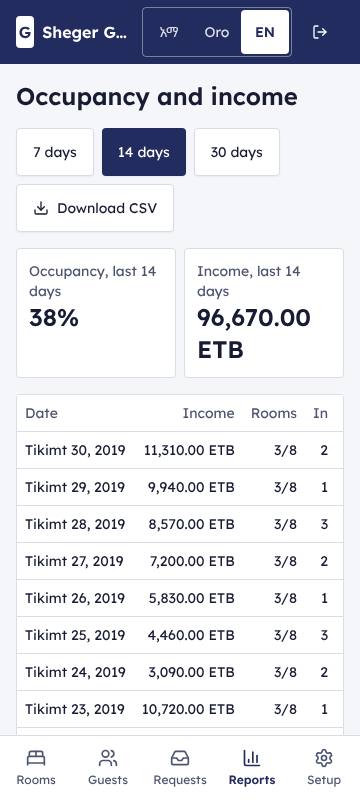
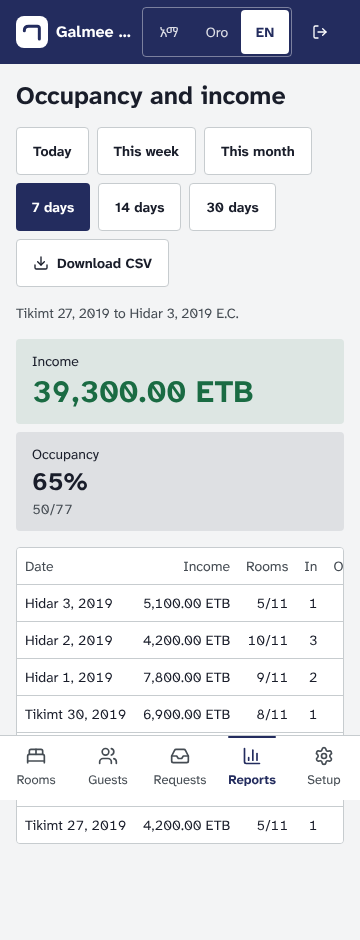
Restyle room board, guest register, requests and reports with the shared summary band, ledger list and empty states

diff --git a/src/app/(app)/page.tsx b/src/app/(app)/page.tsx
@@ -1,7 +1,9 @@
 import Link from "next/link";
 import { getLocale, getTranslations } from "next-intl/server";
-import { ChevronLeft, ChevronRight, Plus } from "lucide-react";
+import { BedDouble, ChevronLeft, ChevronRight, Plus } from "lucide-react";
 import { loadDemoDataAction, markRoomCleanAction } from "@/actions/stays";
+import { EmptyState } from "@/components/galmee/empty-state";
+import { MoneySummaryCard } from "@/components/galmee/money-summary-card";
 import { ActionForm } from "@/components/hotel/action-form";
 import { BOARD_DAYS, RoomBoard } from "@/components/hotel/room-board";
 import { Button, buttonVariants } from "@/components/ui/button";
@@ -31,9 +33,18 @@ export default async function BoardPage({ searchParams }: { searchParams: Promis
   if (rooms.length === 0) {
     return (
       <div className="grid max-w-md gap-3">
-        <h1 className="text-2xl font-semibold">{t("title")}</h1>
-        <p className="text-muted-foreground">{t("emptyBody")}</p>
-        {profile.role !== "staff" ? <Link href="/settings" className={buttonVariants({ size: "lg" })}>{t("setupRooms")}</Link> : null}
+        <h1 className="text-[1.5625rem] leading-tight font-bold">{t("title")}</h1>
+        <EmptyState
+          icon={BedDouble}
+          message={t("emptyBody")}
+          action={
+            profile.role !== "staff" ? (
+              <Link href="/settings" className={buttonVariants({ size: "lg" })}>
+                {t("setupRooms")}
+              </Link>
+            ) : undefined
+          }
+        />
         {tenant.name === DEMO_TENANT && profile.role === "owner" ? (
           <ActionForm action={loadDemoDataAction} submitLabel={t("loadDemo")} />
         ) : null}
@@ -47,7 +58,6 @@ export default async function BoardPage({ searchParams }: { searchParams: Promis
     { label: t("inHouse"), value: summary.inHouse },
     { label: t("arrivals"), value: summary.arrivals },
     { label: t("dueOut"), value: summary.dueOut },
-    { label: t("freeTonight"), value: summary.freeTonight },
   ];
   const windowed = stays.filter((s) => s.checkIn < addDays(from, BOARD_DAYS) && s.checkOut > from);
   const dirtyRooms = rooms.filter((r) => r.dirty && r.inService);
@@ -56,7 +66,7 @@ export default async function BoardPage({ searchParams }: { searchParams: Promis
   return (
     <div className="grid gap-4">
       <div className="flex flex-wrap items-center justify-between gap-2">
-        <h1 className="num text-xl font-semibold">{formatEthiopianDate(from, locale)}</h1>
+        <h1 className="num text-[1.5625rem] leading-tight font-bold">{formatEthiopianDate(from, locale)}</h1>
         <div className="flex items-center gap-2">
           <Link href={`/?from=${addDays(from, -7)}`} className={navClass} aria-label={t("previous")}>
             <ChevronLeft aria-hidden />
@@ -70,14 +80,17 @@ export default async function BoardPage({ searchParams }: { searchParams: Promis
         </div>
       </div>
 
-      <dl className="grid grid-cols-4 gap-2">
-        {stats.map((s) => (
-          <div key={s.label} className="rounded-md border bg-card p-2">
-            <dt className="text-xs leading-tight text-muted-foreground">{s.label}</dt>
-            <dd className="num text-xl font-semibold">{s.value}</dd>
-          </div>
-        ))}
-      </dl>
+      <div className="grid gap-2 sm:grid-cols-[minmax(0,14rem)_1fr]">
+        <MoneySummaryCard label={t("freeTonight")} figure={String(summary.freeTonight)} sub={t("ofRooms", { count: inService })} />
+        <dl className="grid grid-cols-3 divide-x rounded-md border bg-card">
+          {stats.map((s) => (
+            <div key={s.label} className="grid content-center gap-0.5 p-3">
+              <dt className="text-sm leading-tight text-muted-foreground">{s.label}</dt>
+              <dd className="num text-[1.5625rem] leading-tight font-bold">{s.value}</dd>
+            </div>
+          ))}
+        </dl>
+      </div>
 
       <RoomBoard rooms={rooms} stays={windowed} days={dayRange(from, BOARD_DAYS)} today={today} locale={locale} />
 

diff --git a/src/app/(app)/guests/page.tsx b/src/app/(app)/guests/page.tsx
@@ -1,6 +1,7 @@
-import Link from "next/link";
 import { getLocale, getTranslations } from "next-intl/server";
-import { Search } from "lucide-react";
+import { Search, Users } from "lucide-react";
+import { EmptyState } from "@/components/galmee/empty-state";
+import { ListRow, ListSheet } from "@/components/galmee/list-row";
 import { Button } from "@/components/ui/button";
 import { Input } from "@/components/ui/input";
 import type { Locale } from "@/i18n/config";
@@ -12,7 +13,7 @@ export default async function GuestsPage({ searchParams }: { searchParams: Promi
   const [guests, t, locale] = await Promise.all([searchGuests(q), getTranslations("guests"), getLocale() as Promise<Locale>]);
   return (
     <div className="grid max-w-xl gap-4">
-      <h1 className="text-2xl font-semibold">{t("title")}</h1>
+      <h1 className="text-[1.5625rem] leading-tight font-bold">{t("title")}</h1>
       <form role="search" className="flex gap-2">
         <Input name="q" type="search" defaultValue={q} placeholder={t("searchPlaceholder")} aria-label={t("search")} />
         <Button type="submit" size="icon" aria-label={t("search")}>
@@ -20,21 +21,23 @@ export default async function GuestsPage({ searchParams }: { searchParams: Promi
         </Button>
       </form>
       {guests.length === 0 ? (
-        <p className="text-muted-foreground">{q ? t("noMatch") : t("empty")}</p>
+        <EmptyState icon={Users} message={q ? t("noMatch") : t("empty")} />
       ) : (
-        <ul className="divide-y rounded-md border bg-card">
+        <ListSheet>
           {guests.map((g) => (
-            <li key={g.id}>
-              <Link href={`/guests/${g.id}`} className="flex min-h-14 items-center justify-between gap-3 p-3 hover:bg-accent">
-                <div className="min-w-0">
-                  <div className="truncate font-medium">{g.name}</div>
-                  {g.phone ? <div className="num text-sm text-muted-foreground">{g.phone}</div> : null}
-                </div>
-                {g.balance > 0 ? <span className="num shrink-0 font-semibold text-destructive">{formatBirr(g.balance, locale)}</span> : null}
-              </Link>
-            </li>
+            <ListRow
+              key={g.id}
+              href={`/guests/${g.id}`}
+              title={g.name}
+              sub={g.phone ? <span className="num">{g.phone}</span> : undefined}
+              right={
+                g.balance > 0 ? (
+                  <span className="num font-semibold text-owed">{formatBirr(g.balance, locale)}</span>
+                ) : undefined
+              }
+            />
           ))}
-        </ul>
+        </ListSheet>
       )}
     </div>
   );

diff --git a/src/app/(app)/reports/page.tsx b/src/app/(app)/reports/page.tsx
@@ -1,6 +1,7 @@
 import Link from "next/link";
 import { redirect } from "next/navigation";
 import { Download } from "lucide-react";
+import { MoneySummaryCard } from "@/components/galmee/money-summary-card";
 import { buttonVariants } from "@/components/ui/button";
 import { cn } from "@/lib/utils";
 import { getLocale, getTranslations } from "next-intl/server";
@@ -29,7 +30,7 @@ export default async function ReportsPage({ searchParams }: { searchParams: Prom
   const occupancy = capacity ? Math.round((nights / capacity) * 100) : 0;
   return (
     <div className="grid max-w-3xl gap-4">
-      <h1 className="text-2xl font-semibold">{t("title")}</h1>
+      <h1 className="text-[1.5625rem] leading-tight font-bold">{t("title")}</h1>
       <nav className="flex flex-wrap gap-2" aria-label={t("range")}>
         {REPORT_RANGES.map((r) => (
           <Link
@@ -51,16 +52,15 @@ export default async function ReportsPage({ searchParams }: { searchParams: Prom
           ? formatEthiopianDate(from, locale)
           : t("period", { from: formatEthiopianDate(from, locale, { withEra: false }), to: formatEthiopianDate(to, locale) })}
       </p>
-      <dl className="grid grid-cols-2 gap-2">
-        <div className="rounded-md border bg-card p-3">
-          <dt className="text-sm text-muted-foreground">{t("occupancy")}</dt>
-          <dd className="num text-2xl font-semibold">{occupancy}%</dd>
-        </div>
-        <div className="rounded-md border bg-card p-3">
-          <dt className="text-sm text-muted-foreground">{t("income")}</dt>
-          <dd className="num text-2xl font-semibold">{formatBirr(income, locale)}</dd>
-        </div>
-      </dl>
+      <div className="grid gap-2 sm:grid-cols-2">
+        <MoneySummaryCard label={t("income")} figure={formatBirr(income, locale)} tone="in" />
+        <MoneySummaryCard
+          label={t("occupancy")}
+          figure={`${occupancy}%`}
+          sub={`${nights}/${capacity}`}
+          size="md"
+        />
+      </div>
       <div className="overflow-x-auto rounded-md border bg-card" role="region" aria-label={t("title")} tabIndex={0}>
         <table className="num w-full text-sm">
           <thead>

diff --git a/src/app/(app)/requests/page.tsx b/src/app/(app)/requests/page.tsx
@@ -1,6 +1,8 @@
 import Link from "next/link";
 import { getLocale, getTranslations } from "next-intl/server";
+import { Inbox } from "lucide-react";
 import { declineRequestAction } from "@/actions/stays";
+import { EmptyState } from "@/components/galmee/empty-state";
 import { Button, buttonVariants } from "@/components/ui/button";
 import type { Locale } from "@/i18n/config";
 import { formatEthiopianDate } from "@/lib/ethiopian-date";
@@ -10,9 +12,9 @@ export default async function RequestsPage() {
   const [requests, t, locale] = await Promise.all([listNewRequests(), getTranslations("requests"), getLocale() as Promise<Locale>]);
   return (
     <div className="grid max-w-xl gap-4">
-      <h1 className="text-2xl font-semibold">{t("title")}</h1>
+      <h1 className="text-[1.5625rem] leading-tight font-bold">{t("title")}</h1>
       {requests.length === 0 ? (
-        <p className="text-muted-foreground">{t("empty")}</p>
+        <EmptyState icon={Inbox} message={t("empty")} />
       ) : (
         <ul className="grid gap-3">
           {requests.map((r) => (

diff --git a/src/app/(app)/stays/[id]/page.tsx b/src/app/(app)/stays/[id]/page.tsx
@@ -52,7 +52,7 @@ export default async function StayPage({ params }: { params: Promise<{ id: strin
         <p className="text-sm text-muted-foreground">
           {t("roomLine", { number: stay.roomNumber, type: stay.roomTypeName })}
         </p>
-        <h1 className="text-2xl font-semibold">{stay.guestName}</h1>
+        <h1 className="text-[1.5625rem] leading-tight font-bold">{stay.guestName}</h1>
         <p className="num">
           {formatEthiopianDate(stay.checkIn, locale)} → {formatEthiopianDate(stay.checkOut, locale)}
         </p>

diff --git a/src/app/(app)/stays/new/page.tsx b/src/app/(app)/stays/new/page.tsx
@@ -42,7 +42,7 @@ export default async function NewStayPage({ searchParams }: { searchParams: Prom
 
   return (
     <div className="grid max-w-md gap-4">
-      <h1 className="text-2xl font-semibold">{t("newTitle")}</h1>
+      <h1 className="text-[1.5625rem] leading-tight font-bold">{t("newTitle")}</h1>
       <ActionForm action={createStayAction} submitLabel={t("save")}>
         <input type="hidden" name="clientRef" value={randomUUID()} />
         <input type="hidden" name="request" value={request?.id ?? ""} />

diff --git a/src/app/(app)/guests/[id]/page.tsx b/src/app/(app)/guests/[id]/page.tsx
@@ -20,7 +20,7 @@ export default async function GuestPage({ params }: { params: Promise<{ id: stri
   return (
     <div className="grid max-w-xl gap-4">
       <header className="grid gap-1">
-        <h1 className="text-2xl font-semibold">{guest.name}</h1>
+        <h1 className="text-[1.5625rem] leading-tight font-bold">{guest.name}</h1>
         {guest.phone ? (
           <a href={`tel:${guest.phone}`} className="num w-fit text-primary underline underline-offset-4">
             {guest.phone}

diff --git a/src/app/(app)/settings/page.tsx b/src/app/(app)/settings/page.tsx
@@ -23,7 +23,7 @@ export default async function SettingsPage() {
   ]);
   return (
     <div className="grid max-w-xl gap-6">
-      <h1 className="text-2xl font-semibold">{t("title")}</h1>
+      <h1 className="text-[1.5625rem] leading-tight font-bold">{t("title")}</h1>
 
       <section className="grid gap-3" aria-labelledby="types">
         <h2 id="types" className="text-lg font-semibold">{t("roomTypes")}</h2>
